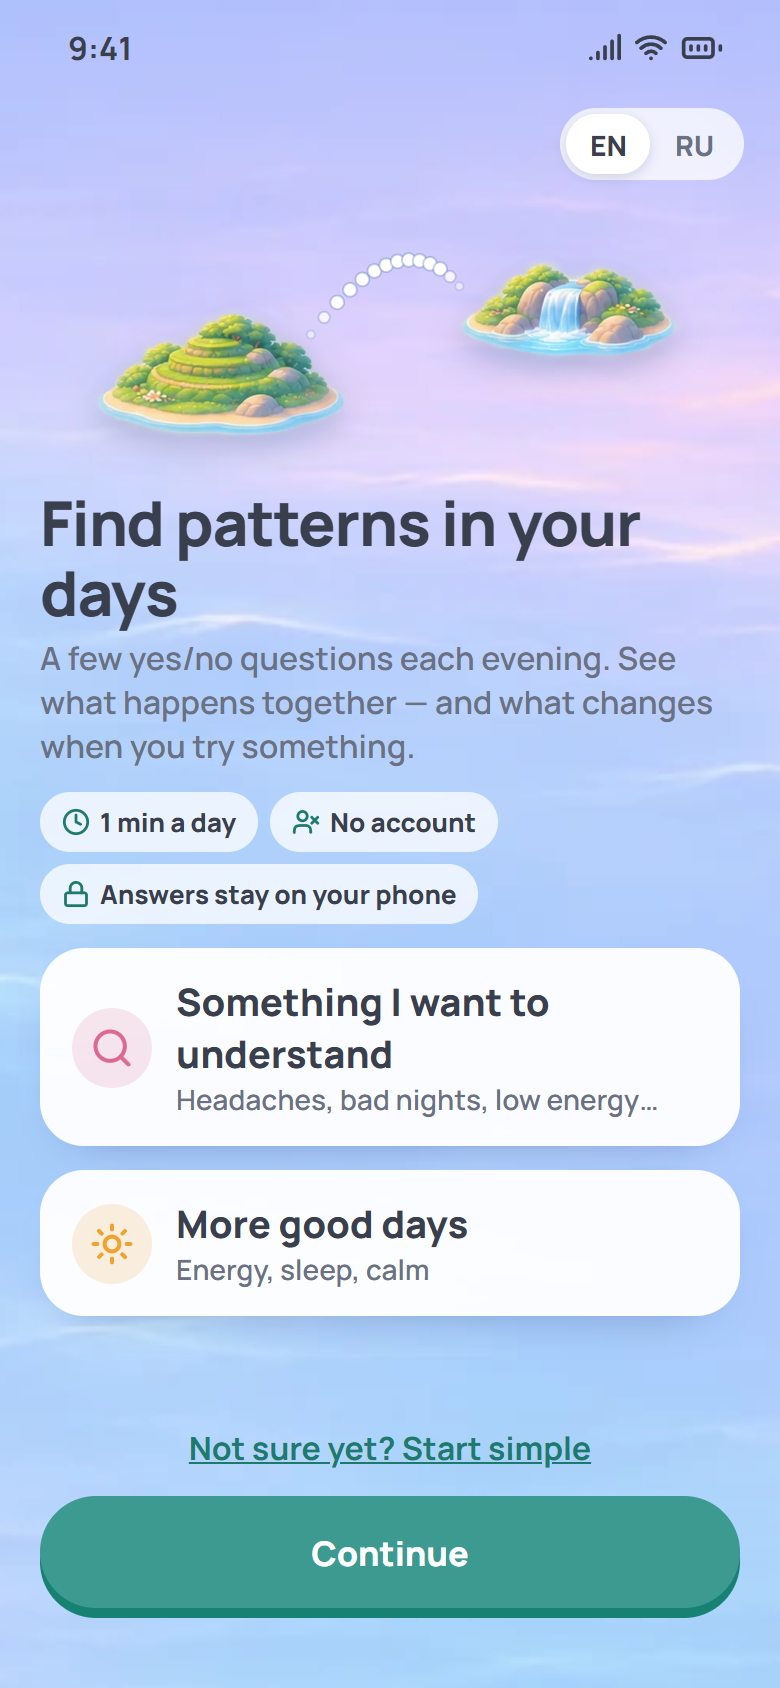
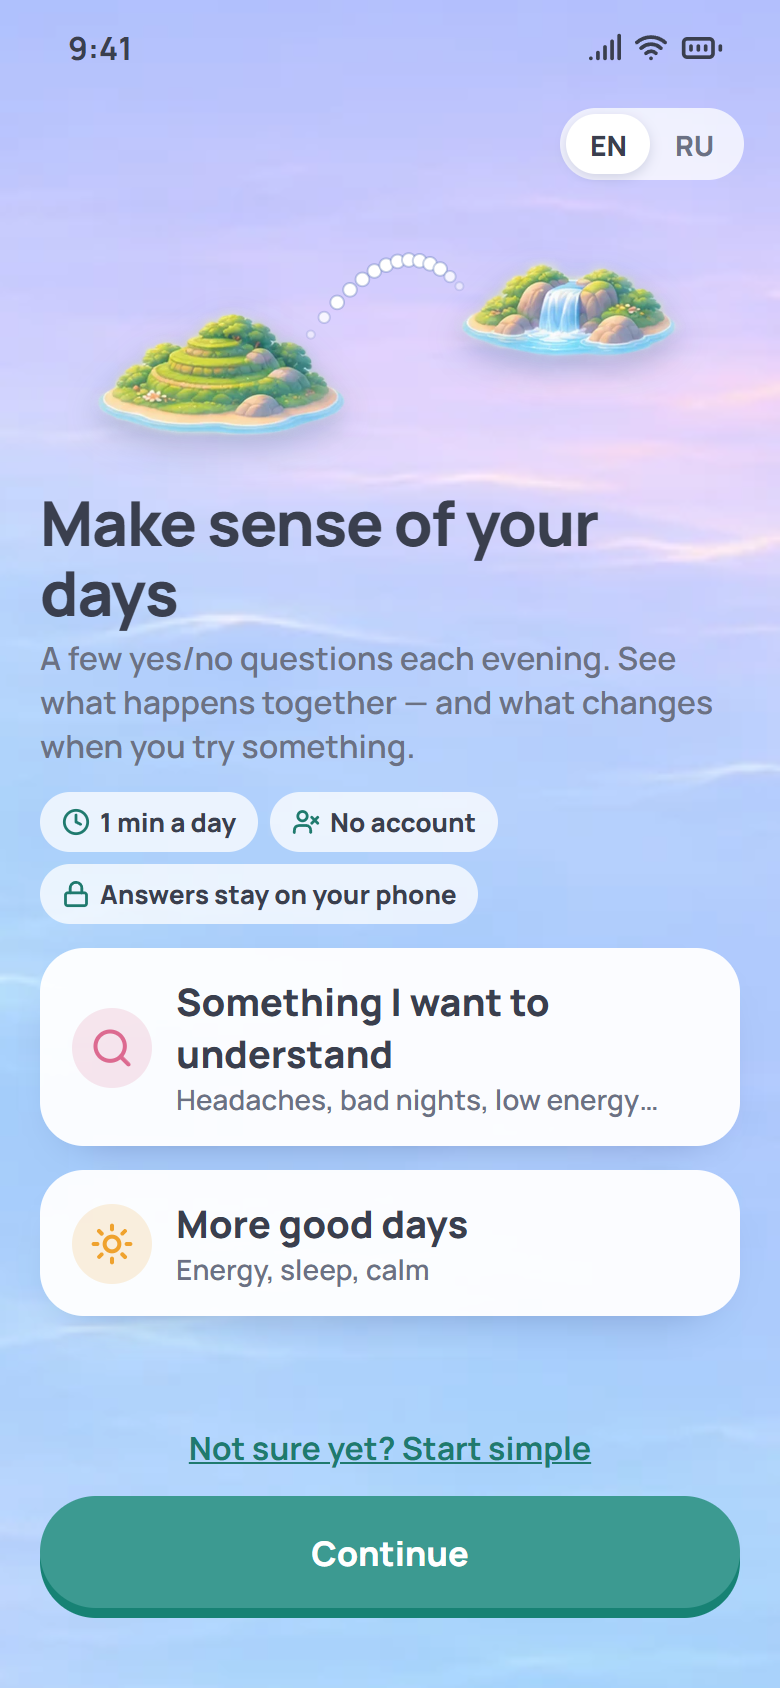
First screen headline: 'Make sense of your days' (her pick)

Changed region(s): [[0.0615, 0.2773, 0.8308, 0.3389]]

diff --git a/marketing/aurora-light-ux/STORYLINE.md b/marketing/aurora-light-ux/STORYLINE.md
@@ -43,7 +43,7 @@
 
 | # | Экран | Что на нём |
 |---|---|---|
-| 1 | Дверь | «Find patterns in your days». Строка: «A few yes/no questions each evening. See what happens together — and what changes when you try something.» Доверие: «1 min a day · no account · answers stay on your phone». Выбор: «Something I want to understand» / «More good days» / «Not sure yet? Start simple» |
+| 1 | Дверь | **«Make sense of your days» / «Разберись в своих днях»** — её выбор из 6 вариантов (доска `72-door-headlines.png`); «Find patterns in your days» ей не понравилось. Строка: «A few yes/no questions each evening. See what happens together — and what changes when you try something.» Доверие: «1 min a day · no account · answers stay on your phone». Выбор: «Something I want to understand» / «More good days» / «Not sure yet? Start simple» |
 | 2 | Тема | «Pick one to start with». Сначала здоровье и самочувствие, «More topics», «Write your own» |
 | 3 | Твои вопросы | Главный (можно править) и 2–3 вопроса вокруг (примеры, убрать, свой) на одном экране |
 | 4 | Что увидишь со временем | 4 недели честно, примеры на теме с «other days», «patterns, not causes» |
